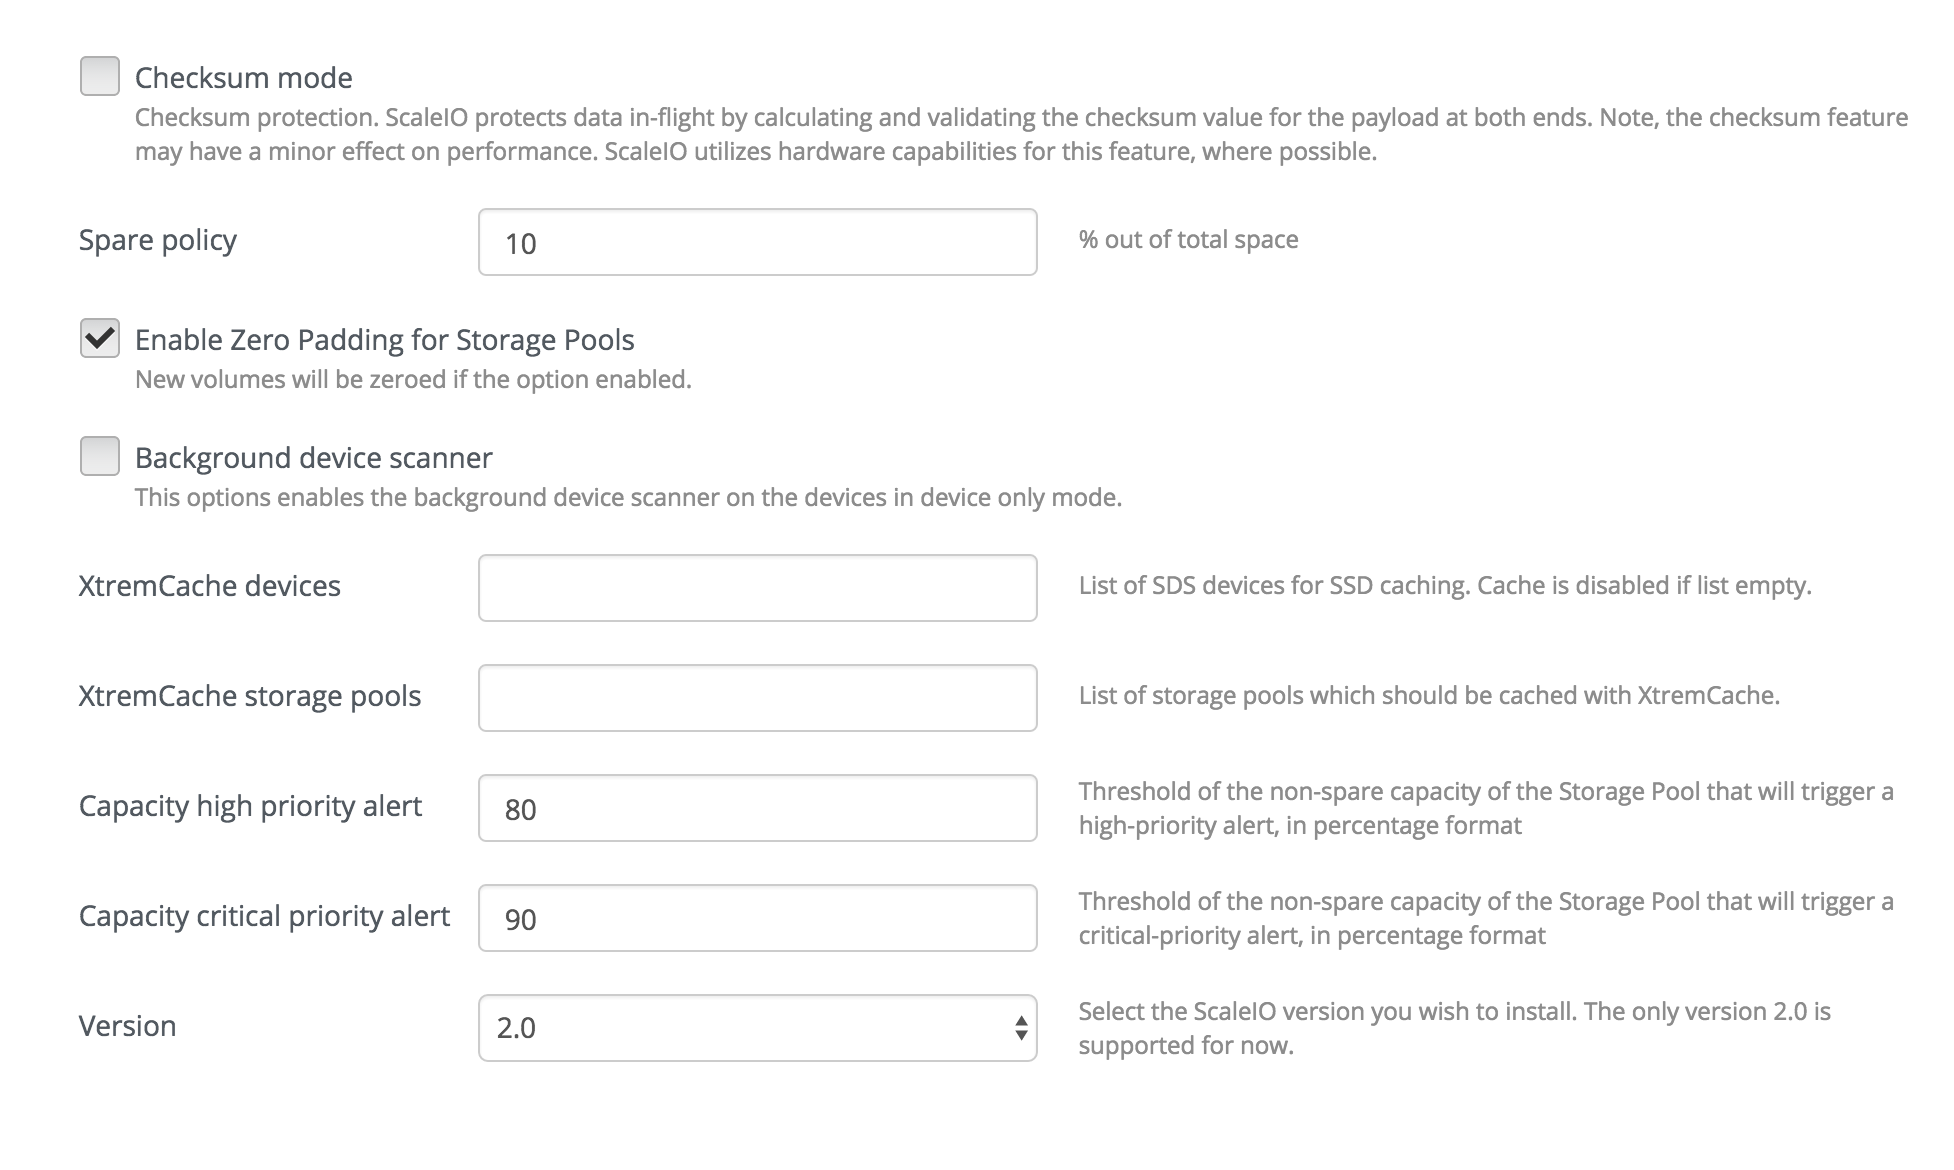
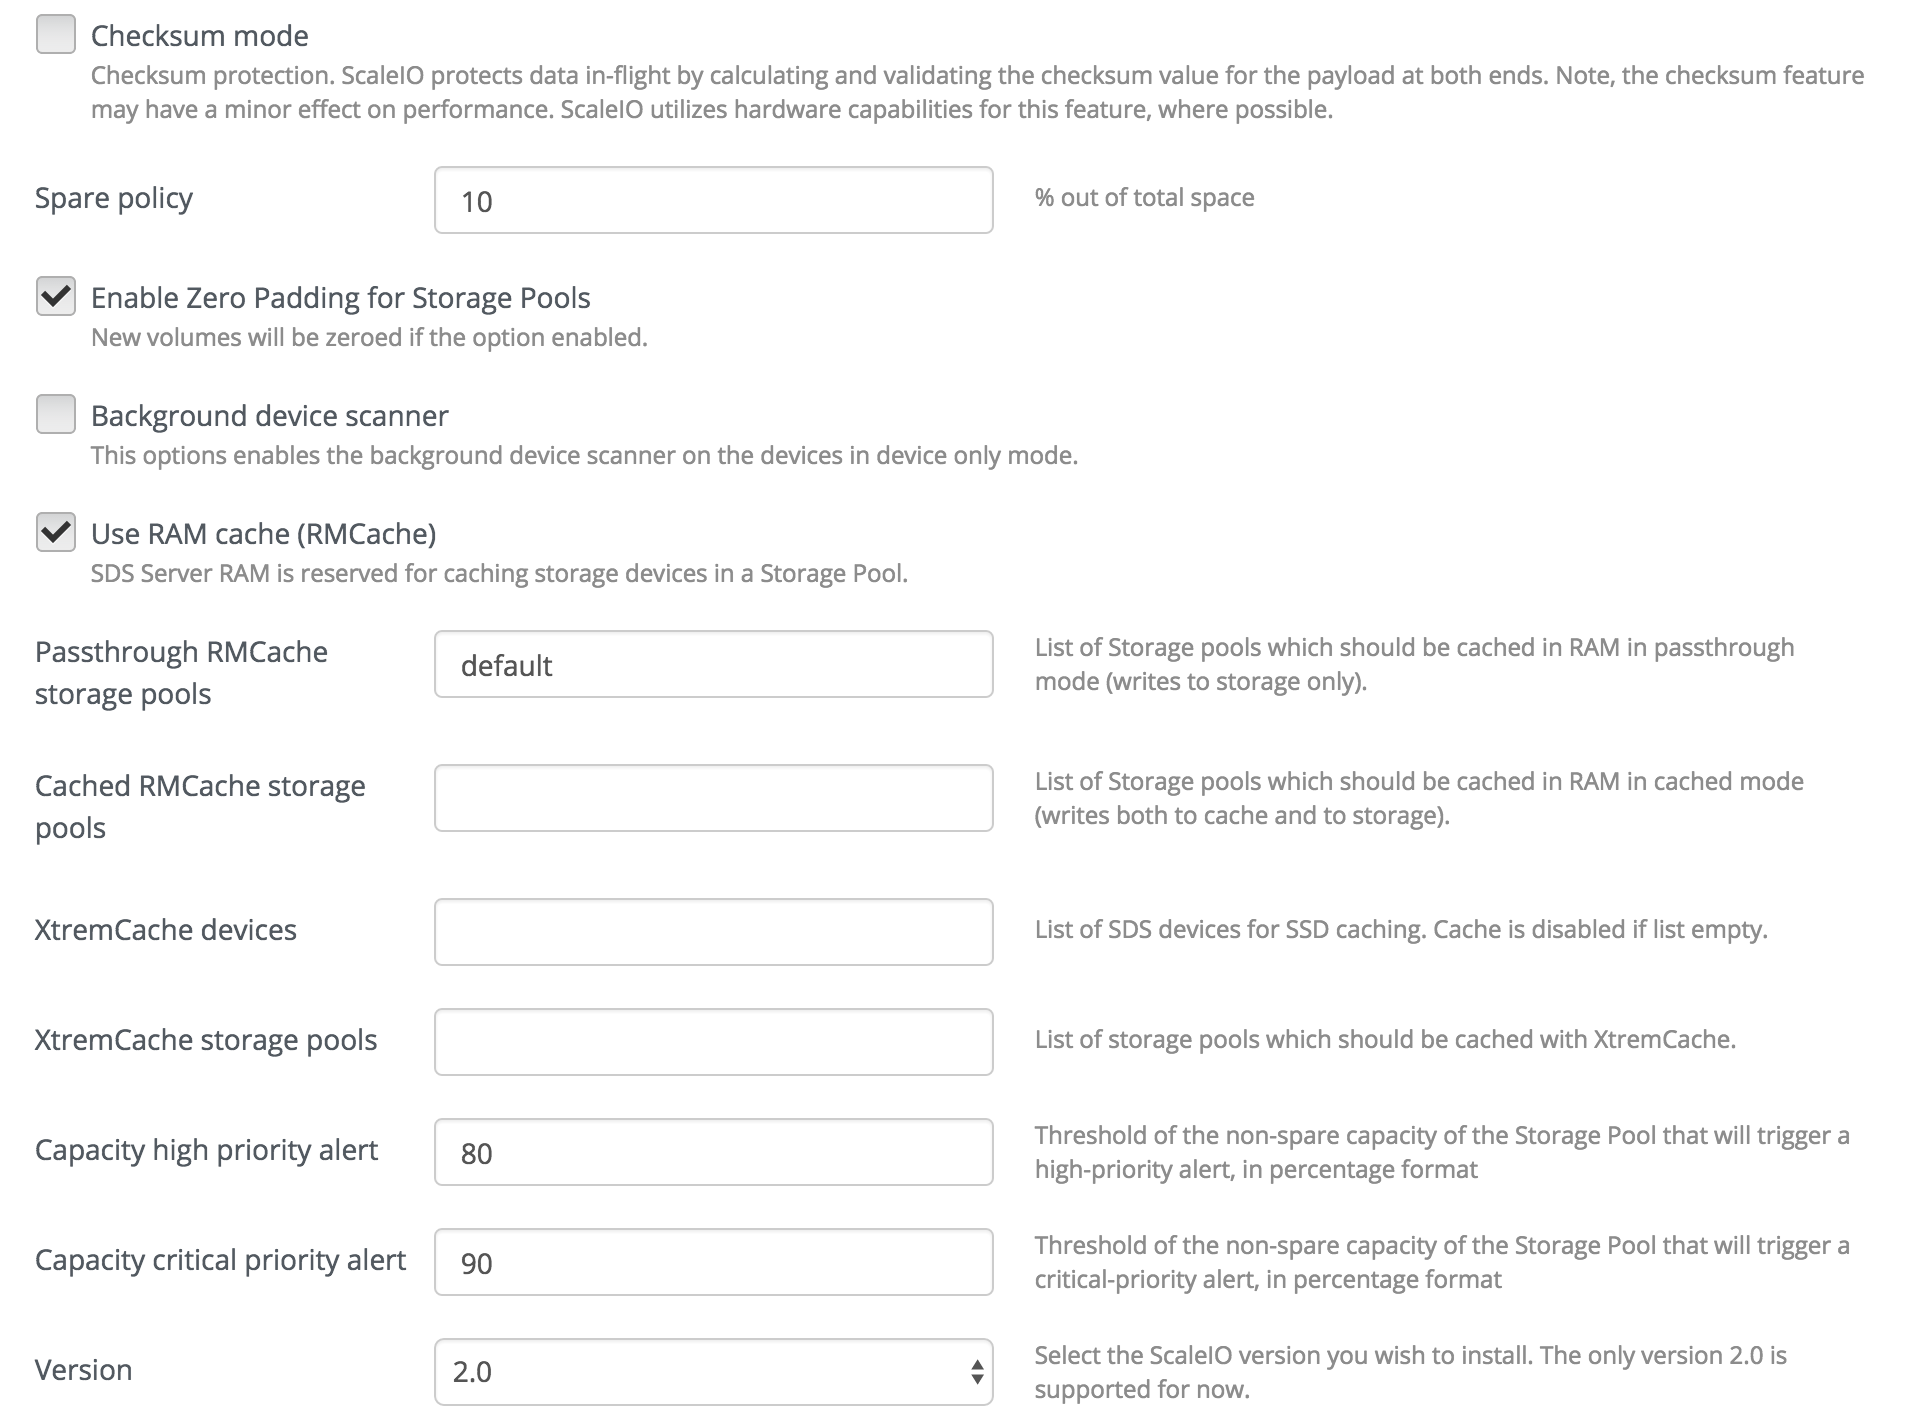
Update docs and readme

diff --git a/README.md b/README.md
@@ -136,7 +136,7 @@ ScaleIO section contains the following info to fill in:
  * Gateway IP address - IP address of ScaleIO gateway
  * Gateway port - Port of ScaleIO gateway
  * Gateway user - User to access ScaleIO gateway
- * Gateway password - Password to access ScaleIO gateway
+ * Admin password - Password to access ScaleIO gateway
  * Protection domain - The protection domain to use
  * Storage pools - Comma-separated list of storage pools
 
@@ -160,7 +160,12 @@ ScaleIO section contains the following info to fill in:
  * XtremCache storage pools - List of storage pools which should be cached with XtremCache.
  * Capacity high priority alert - Threshold of the non-spare capacity of the Storage Pool that will trigger a high-priority alert, in percentage format.
  * Capacity critical priority alert - Threshold of the non-spare capacity of the Storage Pool that will trigger a critical-priority alert, in percentage format.
- 
+ * Use RAM cache (RMCache) - Enable/Disable use of SDS Servers RAM for caching storage devices in a Storage Pool.
+ * Passthrough RMCache storage pools - List of Storage Pools to be cached in SDS Servers RAM in passthrough mode (if the 'Use RAM cache (RMCache)' option is enabled)
+ * Cached RMCache storage pools - List od Storage Pools to be cached in SDS Servers RAM in cached mode (if the 'Use RAM cache (RMCache)' option is enabled)
+ * Glance images on ScaleIO - Enable/Disable ScaleIO backend for Glance images (It uses cinder backend in Glance to store images on ScaleIO).
+   This option is available since MOS9.0.
+
  Configuration of disks for allocated nodes:
  The devices listed in the "Storage devices" and "XtremCache devices" should be left unallocated for ScaleIO SDS to work.
 
